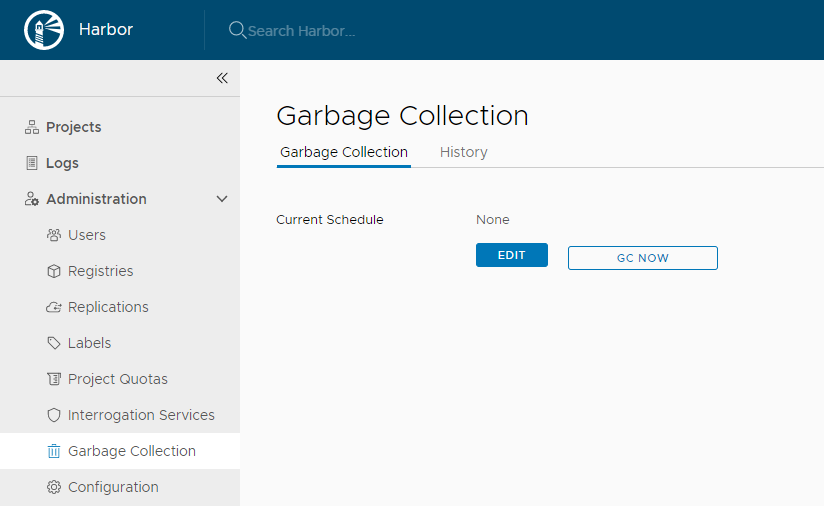
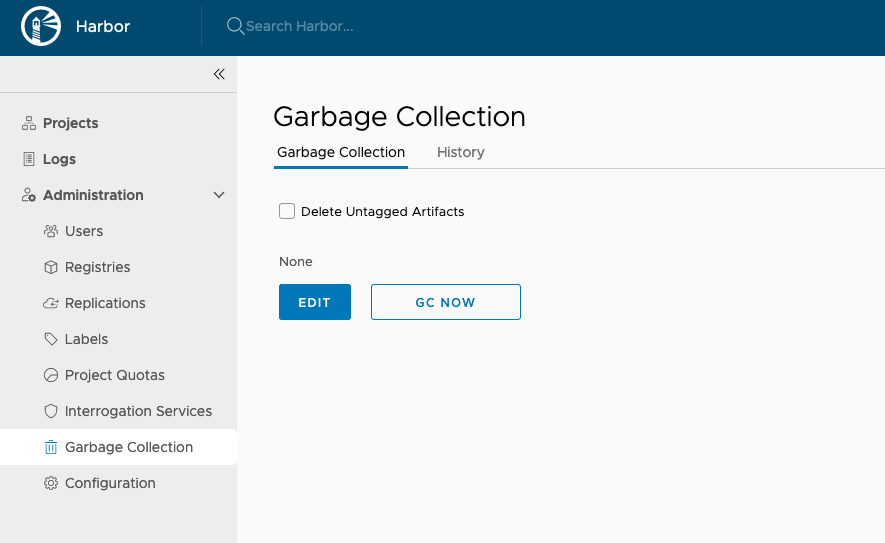
update document of garbage collection for v2.0.0 (#11890)

diff --git a/docs/administration/garbage-collection/_index.md b/docs/administration/garbage-collection/_index.md
@@ -13,6 +13,7 @@ When you delete images from Harbor, space is not automatically freed up. You mus
 
     ![Garbage collection](../../img/garbage-collection.png)
 
+1. To delete untagged artifacts, select the check box **Delete Untagged Artifacts**. 
 1. To run garbage collection immediately, click **GC Now**.
 
 When you run garbage collection, Harbor goes into read-only mode. All modifications to the registry are prohibited.
@@ -32,6 +33,8 @@ To avoid triggering the garbage collection process too frequently, the availabil
     * **Daily**: Run garbage collection at midnight every day.
     * **Weekly**: Run garbage collection at midnight every Saturday.
     * **Custom**: Run garbage collection according to a `cron` job.
+    
+1. To delete untagged artifacts, select the check box **Delete Untagged Artifacts**.     
 1. Click **Save**.
 1. Select the **History** tab to view records of the 10 most recent garbage collection runs.
 
